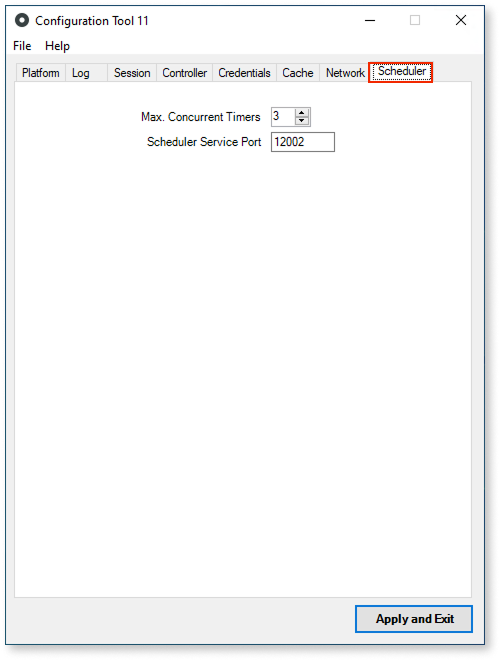
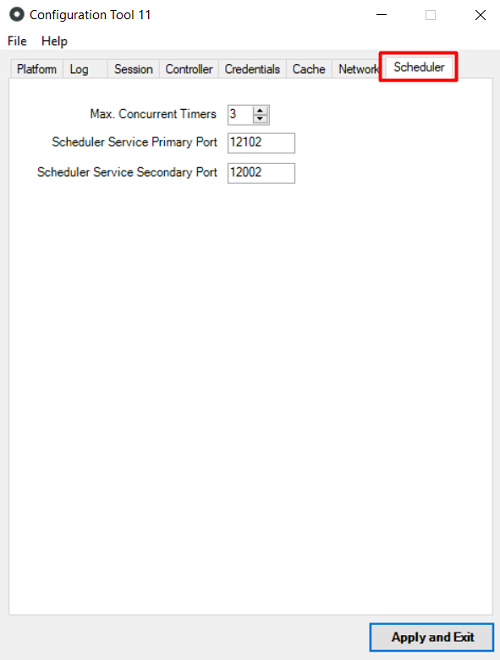
TK-18253 R11BRT-2016 os services missing ports

diff --git a/src/setup-infra-platform/setup/network-requirements.md b/src/setup-infra-platform/setup/network-requirements.md
@@ -61,8 +61,10 @@ The table below details the ports that need to be accessible in each server of a
 |------|-----------|----|--------|-----|
 |Front-End|nativebuilder.api.outsystems.com|443|TCP|Generate Mobile apps with MABS ([more info](https://success.outsystems.com/Support/Enterprise_Customers/Installation/Mobile_App_Builder_Service_connectivity_requirements))|
 |Front-End|Controller (by default)<br/>— Depends on where the Cache Invalidation Service/RabbitMQ is installed.|5672|TCP|Cache Invalidation Service connection|
+|Front-End|Controller|12100|TCP|OutSystems Deployment Controller Service connection. Applies to Platform Server 11.25.0 and higher.|
 |Front-End|Controller|12000|TCP|OutSystems Deployment Controller Service connection|
 |Front-End|SQL Server / Oracle|1433 / 1521|TCP|Database connection|
+|Controller|Front-End|12101|TCP|OutSystems Deployment Service connection. Applies to Platform Server 11.24.0 and higher.|
 |Controller|Front-End|12001|TCP|OutSystems Deployment Service connection|
 |Controller|SQL Server / Oracle|1433 / 1521|TCP|Database connection|
 
